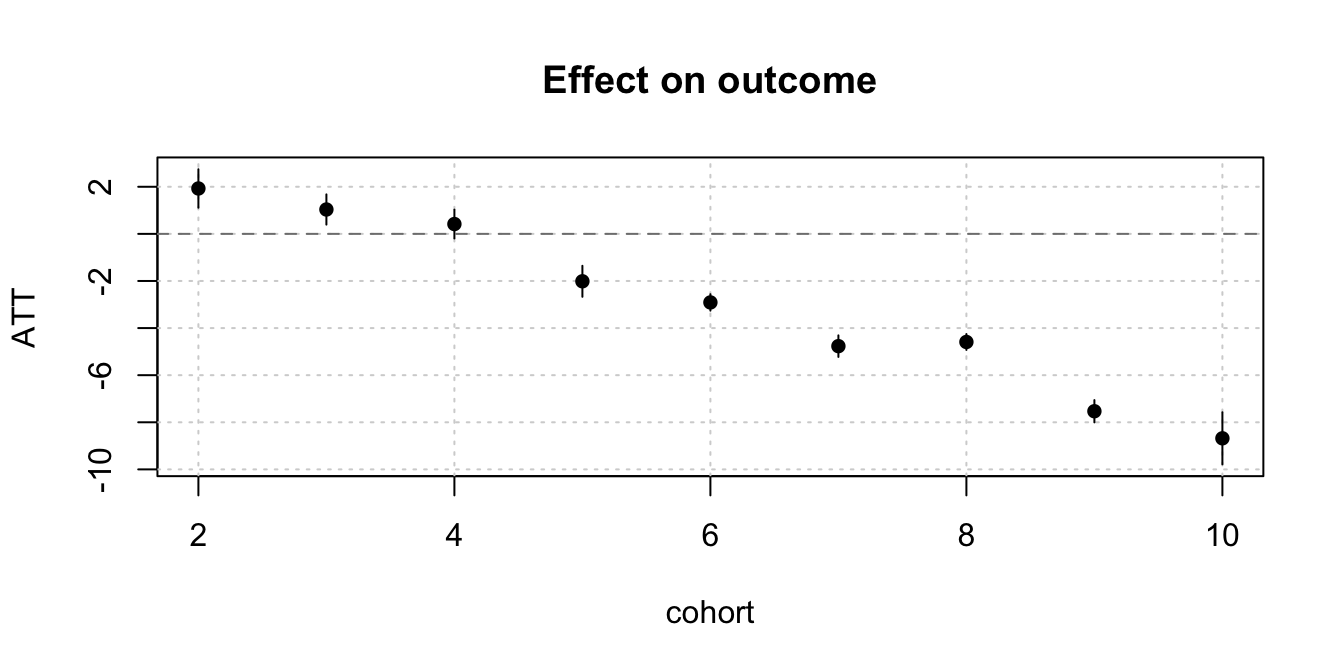
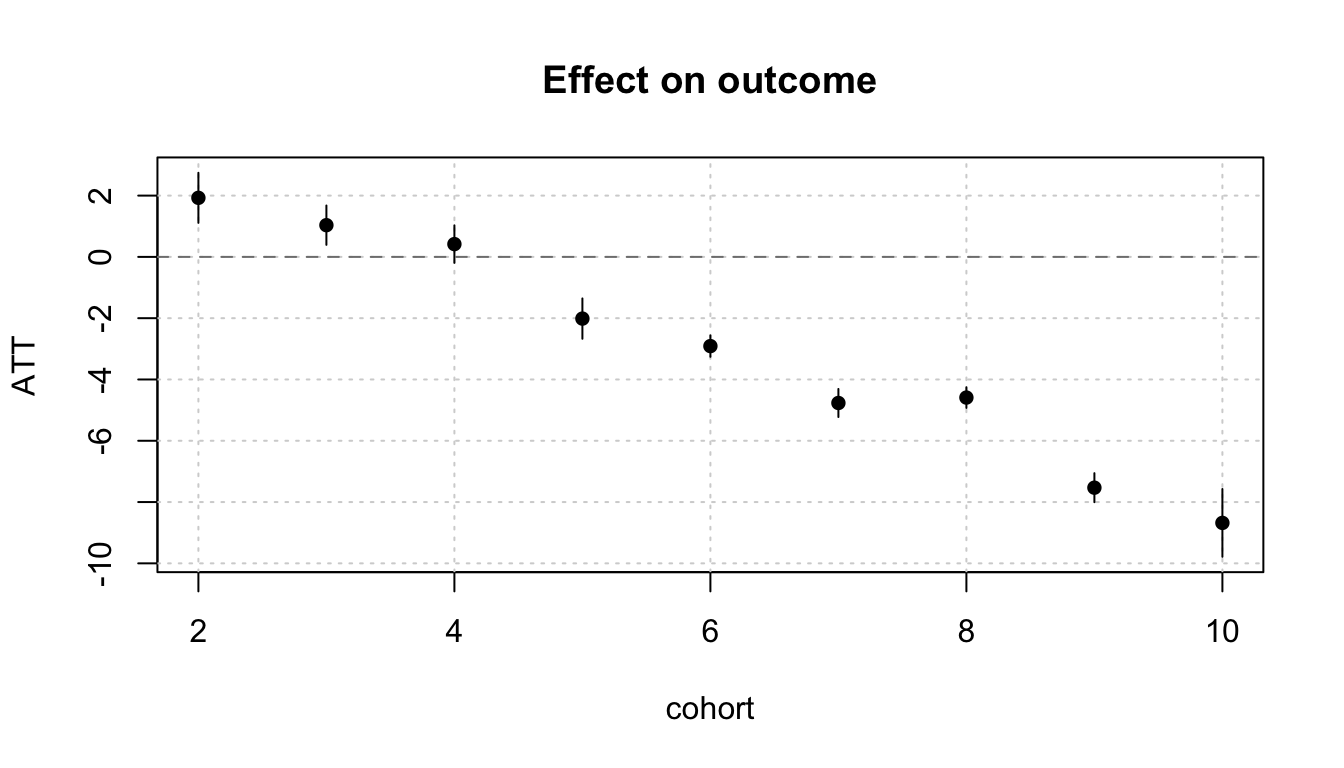
update plots

diff --git a/docs/csdid.html b/docs/csdid.html
@@ -277,7 +277,7 @@ pre > code.sourceCode > span > a:first-child::before { text-decoration: underlin
 <div class="sourceCode" id="cb5"><pre class="sourceCode r code-with-copy"><code class="sourceCode r"><span id="cb5-1"><a href="#cb5-1" aria-hidden="true" tabindex="-1"></a><span class="co">#&gt; </span></span>
 <span id="cb5-2"><a href="#cb5-2" aria-hidden="true" tabindex="-1"></a><span class="co">#&gt; </span></span>
 <span id="cb5-3"><a href="#cb5-3" aria-hidden="true" tabindex="-1"></a><span class="co">#&gt;     ATT Std. Error  [95.0%  Conf. Int.] </span></span>
-<span id="cb5-4"><a href="#cb5-4" aria-hidden="true" tabindex="-1"></a><span class="co">#&gt; -0.9761     0.5204 -1.9961       0.0439 </span></span>
+<span id="cb5-4"><a href="#cb5-4" aria-hidden="true" tabindex="-1"></a><span class="co">#&gt; -0.9761     0.5394 -2.0333       0.0811 </span></span>
 <span id="cb5-5"><a href="#cb5-5" aria-hidden="true" tabindex="-1"></a><span class="co">#&gt; </span></span>
 <span id="cb5-6"><a href="#cb5-6" aria-hidden="true" tabindex="-1"></a><span class="co">#&gt; </span></span>
 <span id="cb5-7"><a href="#cb5-7" aria-hidden="true" tabindex="-1"></a><span class="co">#&gt; ---</span></span>
@@ -287,7 +287,7 @@ pre > code.sourceCode > span > a:first-child::before { text-decoration: underlin
 <span id="cb5-11"><a href="#cb5-11" aria-hidden="true" tabindex="-1"></a><span class="co">#&gt; Estimation Method:  Doubly Robust</span></span>
 <span id="cb5-12"><a href="#cb5-12" aria-hidden="true" tabindex="-1"></a><span class="co">#&gt; </span></span>
 <span id="cb5-13"><a href="#cb5-13" aria-hidden="true" tabindex="-1"></a><span class="co">#&gt; </span></span>
-<span id="cb5-14"><a href="#cb5-14" aria-hidden="true" tabindex="-1"></a><span class="co">#&gt; &lt;csdid.att_gt.ATTgt object at 0x176bd9fd0&gt;</span></span></code><button title="Copy to Clipboard" class="code-copy-button"><i class="bi"></i></button></pre></div>
+<span id="cb5-14"><a href="#cb5-14" aria-hidden="true" tabindex="-1"></a><span class="co">#&gt; &lt;csdid.att_gt.ATTgt object at 0x172d04560&gt;</span></span></code><button title="Copy to Clipboard" class="code-copy-button"><i class="bi"></i></button></pre></div>
 </div>
 </div>
 <p><br></p>
@@ -299,27 +299,27 @@ pre > code.sourceCode > span > a:first-child::before { text-decoration: underlin
 <span id="cb7-2"><a href="#cb7-2" aria-hidden="true" tabindex="-1"></a><span class="co">#&gt; </span></span>
 <span id="cb7-3"><a href="#cb7-3" aria-hidden="true" tabindex="-1"></a><span class="co">#&gt; Overall summary of ATT's based on event-study/dynamic aggregation:</span></span>
 <span id="cb7-4"><a href="#cb7-4" aria-hidden="true" tabindex="-1"></a><span class="co">#&gt;    ATT Std. Error [95.0%  Conf. Int.]  </span></span>
-<span id="cb7-5"><a href="#cb7-5" aria-hidden="true" tabindex="-1"></a><span class="co">#&gt; 0.7669     0.2456 0.2856       1.2483 *</span></span>
+<span id="cb7-5"><a href="#cb7-5" aria-hidden="true" tabindex="-1"></a><span class="co">#&gt; 0.7669     0.2617  0.254       1.2799 *</span></span>
 <span id="cb7-6"><a href="#cb7-6" aria-hidden="true" tabindex="-1"></a><span class="co">#&gt; </span></span>
 <span id="cb7-7"><a href="#cb7-7" aria-hidden="true" tabindex="-1"></a><span class="co">#&gt; </span></span>
 <span id="cb7-8"><a href="#cb7-8" aria-hidden="true" tabindex="-1"></a><span class="co">#&gt; Dynamic Effects:</span></span>
 <span id="cb7-9"><a href="#cb7-9" aria-hidden="true" tabindex="-1"></a><span class="co">#&gt;     Event time  Estimate  Std. Error  [95.0% Simult.   Conf. Band   </span></span>
-<span id="cb7-10"><a href="#cb7-10" aria-hidden="true" tabindex="-1"></a><span class="co">#&gt; 0           -7    0.7884      0.4154          -0.0257      1.6026   </span></span>
-<span id="cb7-11"><a href="#cb7-11" aria-hidden="true" tabindex="-1"></a><span class="co">#&gt; 1           -6   -0.7444      0.5244          -1.7722      0.2835   </span></span>
-<span id="cb7-12"><a href="#cb7-12" aria-hidden="true" tabindex="-1"></a><span class="co">#&gt; 2           -5    0.0099      0.3829          -0.7405      0.7603   </span></span>
-<span id="cb7-13"><a href="#cb7-13" aria-hidden="true" tabindex="-1"></a><span class="co">#&gt; 3           -4    0.0249      0.3091          -0.5809      0.6307   </span></span>
-<span id="cb7-14"><a href="#cb7-14" aria-hidden="true" tabindex="-1"></a><span class="co">#&gt; 4           -3    0.1380      0.2788          -0.4085      0.6845   </span></span>
-<span id="cb7-15"><a href="#cb7-15" aria-hidden="true" tabindex="-1"></a><span class="co">#&gt; 5           -2    0.3772      0.3049          -0.2203      0.9748   </span></span>
-<span id="cb7-16"><a href="#cb7-16" aria-hidden="true" tabindex="-1"></a><span class="co">#&gt; 6           -1   -0.0628      0.2931          -0.6372      0.5116   </span></span>
-<span id="cb7-17"><a href="#cb7-17" aria-hidden="true" tabindex="-1"></a><span class="co">#&gt; 7            0   -4.8345      0.4018          -5.6220     -4.0469  *</span></span>
-<span id="cb7-18"><a href="#cb7-18" aria-hidden="true" tabindex="-1"></a><span class="co">#&gt; 8            1   -3.5553      0.4467          -4.4309     -2.6798  *</span></span>
-<span id="cb7-19"><a href="#cb7-19" aria-hidden="true" tabindex="-1"></a><span class="co">#&gt; 9            2   -2.0860      0.3892          -2.8488     -1.3233  *</span></span>
-<span id="cb7-20"><a href="#cb7-20" aria-hidden="true" tabindex="-1"></a><span class="co">#&gt; 10           3   -0.3910      0.5576          -1.4839      0.7019   </span></span>
-<span id="cb7-21"><a href="#cb7-21" aria-hidden="true" tabindex="-1"></a><span class="co">#&gt; 11           4    0.8165      0.4855          -0.1351      1.7681   </span></span>
-<span id="cb7-22"><a href="#cb7-22" aria-hidden="true" tabindex="-1"></a><span class="co">#&gt; 12           5    1.9183      0.7314           0.4847      3.3518  *</span></span>
-<span id="cb7-23"><a href="#cb7-23" aria-hidden="true" tabindex="-1"></a><span class="co">#&gt; 13           6    4.8726      0.3282           4.2292      5.5159  *</span></span>
-<span id="cb7-24"><a href="#cb7-24" aria-hidden="true" tabindex="-1"></a><span class="co">#&gt; 14           7    4.5839      0.3360           3.9254      5.2423  *</span></span>
-<span id="cb7-25"><a href="#cb7-25" aria-hidden="true" tabindex="-1"></a><span class="co">#&gt; 15           8    5.5782      0.6757           4.2539      6.9025  *</span></span>
+<span id="cb7-10"><a href="#cb7-10" aria-hidden="true" tabindex="-1"></a><span class="co">#&gt; 0           -7    0.7884      0.4784          -0.1492      1.7260   </span></span>
+<span id="cb7-11"><a href="#cb7-11" aria-hidden="true" tabindex="-1"></a><span class="co">#&gt; 1           -6   -0.7444      0.5443          -1.8112      0.3225   </span></span>
+<span id="cb7-12"><a href="#cb7-12" aria-hidden="true" tabindex="-1"></a><span class="co">#&gt; 2           -5    0.0099      0.3582          -0.6922      0.7121   </span></span>
+<span id="cb7-13"><a href="#cb7-13" aria-hidden="true" tabindex="-1"></a><span class="co">#&gt; 3           -4    0.0249      0.2946          -0.5526      0.6024   </span></span>
+<span id="cb7-14"><a href="#cb7-14" aria-hidden="true" tabindex="-1"></a><span class="co">#&gt; 4           -3    0.1380      0.3206          -0.4904      0.7664   </span></span>
+<span id="cb7-15"><a href="#cb7-15" aria-hidden="true" tabindex="-1"></a><span class="co">#&gt; 5           -2    0.3772      0.2980          -0.2068      0.9612   </span></span>
+<span id="cb7-16"><a href="#cb7-16" aria-hidden="true" tabindex="-1"></a><span class="co">#&gt; 6           -1   -0.0628      0.2917          -0.6345      0.5089   </span></span>
+<span id="cb7-17"><a href="#cb7-17" aria-hidden="true" tabindex="-1"></a><span class="co">#&gt; 7            0   -4.8345      0.3998          -5.6181     -4.0509  *</span></span>
+<span id="cb7-18"><a href="#cb7-18" aria-hidden="true" tabindex="-1"></a><span class="co">#&gt; 8            1   -3.5553      0.4008          -4.3409     -2.7698  *</span></span>
+<span id="cb7-19"><a href="#cb7-19" aria-hidden="true" tabindex="-1"></a><span class="co">#&gt; 9            2   -2.0860      0.3679          -2.8070     -1.3651  *</span></span>
+<span id="cb7-20"><a href="#cb7-20" aria-hidden="true" tabindex="-1"></a><span class="co">#&gt; 10           3   -0.3910      0.5716          -1.5114      0.7294   </span></span>
+<span id="cb7-21"><a href="#cb7-21" aria-hidden="true" tabindex="-1"></a><span class="co">#&gt; 11           4    0.8165      0.4531          -0.0715      1.7044   </span></span>
+<span id="cb7-22"><a href="#cb7-22" aria-hidden="true" tabindex="-1"></a><span class="co">#&gt; 12           5    1.9183      0.7530           0.4424      3.3942  *</span></span>
+<span id="cb7-23"><a href="#cb7-23" aria-hidden="true" tabindex="-1"></a><span class="co">#&gt; 13           6    4.8726      0.3386           4.2090      5.5362  *</span></span>
+<span id="cb7-24"><a href="#cb7-24" aria-hidden="true" tabindex="-1"></a><span class="co">#&gt; 14           7    4.5839      0.3410           3.9156      5.2522  *</span></span>
+<span id="cb7-25"><a href="#cb7-25" aria-hidden="true" tabindex="-1"></a><span class="co">#&gt; 15           8    5.5782      0.6853           4.2350      6.9214  *</span></span>
 <span id="cb7-26"><a href="#cb7-26" aria-hidden="true" tabindex="-1"></a><span class="co">#&gt; ---</span></span>
 <span id="cb7-27"><a href="#cb7-27" aria-hidden="true" tabindex="-1"></a><span class="co">#&gt; Signif. codes: `*' confidence band does not cover 0</span></span>
 <span id="cb7-28"><a href="#cb7-28" aria-hidden="true" tabindex="-1"></a><span class="co">#&gt; Control Group:  None , </span></span>
@@ -327,7 +327,7 @@ pre > code.sourceCode > span > a:first-child::before { text-decoration: underlin
 <span id="cb7-30"><a href="#cb7-30" aria-hidden="true" tabindex="-1"></a><span class="co">#&gt; Estimation Method:  Doubly Robust</span></span>
 <span id="cb7-31"><a href="#cb7-31" aria-hidden="true" tabindex="-1"></a><span class="co">#&gt; </span></span>
 <span id="cb7-32"><a href="#cb7-32" aria-hidden="true" tabindex="-1"></a><span class="co">#&gt; </span></span>
-<span id="cb7-33"><a href="#cb7-33" aria-hidden="true" tabindex="-1"></a><span class="co">#&gt; &lt;csdid.att_gt.ATTgt object at 0x176bd9fd0&gt;</span></span></code><button title="Copy to Clipboard" class="code-copy-button"><i class="bi"></i></button></pre></div>
+<span id="cb7-33"><a href="#cb7-33" aria-hidden="true" tabindex="-1"></a><span class="co">#&gt; &lt;csdid.att_gt.ATTgt object at 0x172d04560&gt;</span></span></code><button title="Copy to Clipboard" class="code-copy-button"><i class="bi"></i></button></pre></div>
 </div>
 <div class="sourceCode cell-code" id="cb8"><pre class="sourceCode python code-with-copy"><code class="sourceCode python"><span id="cb8-1"><a href="#cb8-1" aria-hidden="true" tabindex="-1"></a>mod.plot_aggte()</span></code><button title="Copy to Clipboard" class="code-copy-button"><i class="bi"></i></button></pre></div>
 <div class="cell-output-display">
@@ -347,19 +347,19 @@ pre > code.sourceCode > span > a:first-child::before { text-decoration: underlin
 <span id="cb10-2"><a href="#cb10-2" aria-hidden="true" tabindex="-1"></a><span class="co">#&gt; </span></span>
 <span id="cb10-3"><a href="#cb10-3" aria-hidden="true" tabindex="-1"></a><span class="co">#&gt; Overall summary of ATT's based on group/cohort aggregation:</span></span>
 <span id="cb10-4"><a href="#cb10-4" aria-hidden="true" tabindex="-1"></a><span class="co">#&gt;     ATT Std. Error  [95.0%  Conf. Int.]  </span></span>
-<span id="cb10-5"><a href="#cb10-5" aria-hidden="true" tabindex="-1"></a><span class="co">#&gt; -2.2754     0.1839 -2.6358       -1.915 *</span></span>
+<span id="cb10-5"><a href="#cb10-5" aria-hidden="true" tabindex="-1"></a><span class="co">#&gt; -2.2754     0.1894 -2.6467      -1.9041 *</span></span>
 <span id="cb10-6"><a href="#cb10-6" aria-hidden="true" tabindex="-1"></a><span class="co">#&gt; </span></span>
 <span id="cb10-7"><a href="#cb10-7" aria-hidden="true" tabindex="-1"></a><span class="co">#&gt; </span></span>
 <span id="cb10-8"><a href="#cb10-8" aria-hidden="true" tabindex="-1"></a><span class="co">#&gt; Group Effects:</span></span>
 <span id="cb10-9"><a href="#cb10-9" aria-hidden="true" tabindex="-1"></a><span class="co">#&gt;    Group  Estimate  Std. Error  [95.0% Simult.   Conf. Band   </span></span>
-<span id="cb10-10"><a href="#cb10-10" aria-hidden="true" tabindex="-1"></a><span class="co">#&gt; 0      2    2.0844      0.3110           1.4750      2.6939  *</span></span>
-<span id="cb10-11"><a href="#cb10-11" aria-hidden="true" tabindex="-1"></a><span class="co">#&gt; 1      3    1.3054      0.4957           0.3339      2.2770  *</span></span>
-<span id="cb10-12"><a href="#cb10-12" aria-hidden="true" tabindex="-1"></a><span class="co">#&gt; 2      4    1.1756      0.6094          -0.0188      2.3700   </span></span>
-<span id="cb10-13"><a href="#cb10-13" aria-hidden="true" tabindex="-1"></a><span class="co">#&gt; 3      5   -2.9813      0.3828          -3.7316     -2.2311  *</span></span>
-<span id="cb10-14"><a href="#cb10-14" aria-hidden="true" tabindex="-1"></a><span class="co">#&gt; 4      6   -2.8821      0.6997          -4.2534     -1.5108  *</span></span>
-<span id="cb10-15"><a href="#cb10-15" aria-hidden="true" tabindex="-1"></a><span class="co">#&gt; 5      7   -4.5846      0.8311          -6.2134     -2.9558  *</span></span>
-<span id="cb10-16"><a href="#cb10-16" aria-hidden="true" tabindex="-1"></a><span class="co">#&gt; 6      8   -5.1020      0.3839          -5.8544     -4.3495  *</span></span>
-<span id="cb10-17"><a href="#cb10-17" aria-hidden="true" tabindex="-1"></a><span class="co">#&gt; 7      9   -7.2184      0.3954          -7.9933     -6.4436  *</span></span>
+<span id="cb10-10"><a href="#cb10-10" aria-hidden="true" tabindex="-1"></a><span class="co">#&gt; 0      2    2.0844      0.3097           1.4773      2.6915  *</span></span>
+<span id="cb10-11"><a href="#cb10-11" aria-hidden="true" tabindex="-1"></a><span class="co">#&gt; 1      3    1.3054      0.4644           0.3951      2.2157  *</span></span>
+<span id="cb10-12"><a href="#cb10-12" aria-hidden="true" tabindex="-1"></a><span class="co">#&gt; 2      4    1.1756      0.6595          -0.1170      2.4681   </span></span>
+<span id="cb10-13"><a href="#cb10-13" aria-hidden="true" tabindex="-1"></a><span class="co">#&gt; 3      5   -2.9813      0.3982          -3.7618     -2.2009  *</span></span>
+<span id="cb10-14"><a href="#cb10-14" aria-hidden="true" tabindex="-1"></a><span class="co">#&gt; 4      6   -2.8821      0.6750          -4.2050     -1.5591  *</span></span>
+<span id="cb10-15"><a href="#cb10-15" aria-hidden="true" tabindex="-1"></a><span class="co">#&gt; 5      7   -4.5846      0.7064          -5.9691     -3.2001  *</span></span>
+<span id="cb10-16"><a href="#cb10-16" aria-hidden="true" tabindex="-1"></a><span class="co">#&gt; 6      8   -5.1020      0.3650          -5.8173     -4.3866  *</span></span>
+<span id="cb10-17"><a href="#cb10-17" aria-hidden="true" tabindex="-1"></a><span class="co">#&gt; 7      9   -7.2184      0.4413          -8.0834     -6.3535  *</span></span>
 <span id="cb10-18"><a href="#cb10-18" aria-hidden="true" tabindex="-1"></a><span class="co">#&gt; ---</span></span>
 <span id="cb10-19"><a href="#cb10-19" aria-hidden="true" tabindex="-1"></a><span class="co">#&gt; Signif. codes: `*' confidence band does not cover 0</span></span>
 <span id="cb10-20"><a href="#cb10-20" aria-hidden="true" tabindex="-1"></a><span class="co">#&gt; Control Group:  None , </span></span>
@@ -367,7 +367,7 @@ pre > code.sourceCode > span > a:first-child::before { text-decoration: underlin
 <span id="cb10-22"><a href="#cb10-22" aria-hidden="true" tabindex="-1"></a><span class="co">#&gt; Estimation Method:  Doubly Robust</span></span>
 <span id="cb10-23"><a href="#cb10-23" aria-hidden="true" tabindex="-1"></a><span class="co">#&gt; </span></span>
 <span id="cb10-24"><a href="#cb10-24" aria-hidden="true" tabindex="-1"></a><span class="co">#&gt; </span></span>
-<span id="cb10-25"><a href="#cb10-25" aria-hidden="true" tabindex="-1"></a><span class="co">#&gt; &lt;csdid.att_gt.ATTgt object at 0x176bd9fd0&gt;</span></span></code><button title="Copy to Clipboard" class="code-copy-button"><i class="bi"></i></button></pre></div>
+<span id="cb10-25"><a href="#cb10-25" aria-hidden="true" tabindex="-1"></a><span class="co">#&gt; &lt;csdid.att_gt.ATTgt object at 0x172d04560&gt;</span></span></code><button title="Copy to Clipboard" class="code-copy-button"><i class="bi"></i></button></pre></div>
 </div>
 <div class="sourceCode cell-code" id="cb11"><pre class="sourceCode python code-with-copy"><code class="sourceCode python"><span id="cb11-1"><a href="#cb11-1" aria-hidden="true" tabindex="-1"></a>mod.plot_aggte()</span></code><button title="Copy to Clipboard" class="code-copy-button"><i class="bi"></i></button></pre></div>
 <div class="cell-output-display">

diff --git a/docs/panelmatch.html b/docs/panelmatch.html
@@ -248,8 +248,9 @@ pre > code.sourceCode > span > a:first-child::before { text-decoration: underlin
 <p>Start by loading packages and the data:</p>
 <div class="cell">
 <div class="sourceCode cell-code" id="cb2"><pre class="sourceCode r code-with-copy"><code class="sourceCode r"><span id="cb2-1"><a href="#cb2-1" aria-hidden="true" tabindex="-1"></a><span class="fu">library</span>(PanelMatch)</span>
-<span id="cb2-2"><a href="#cb2-2" aria-hidden="true" tabindex="-1"></a><span class="fu">library</span>(readr)  <span class="co"># for importing data</span></span>
-<span id="cb2-3"><a href="#cb2-3" aria-hidden="true" tabindex="-1"></a>df <span class="ot">=</span> <span class="fu">read_csv</span>(<span class="st">'df.csv'</span>)</span></code><button title="Copy to Clipboard" class="code-copy-button"><i class="bi"></i></button></pre></div>
+<span id="cb2-2"><a href="#cb2-2" aria-hidden="true" tabindex="-1"></a><span class="fu">library</span>(readr)    <span class="co"># for importing data</span></span>
+<span id="cb2-3"><a href="#cb2-3" aria-hidden="true" tabindex="-1"></a><span class="fu">library</span>(ggplot2)  <span class="co"># for plotting</span></span>
+<span id="cb2-4"><a href="#cb2-4" aria-hidden="true" tabindex="-1"></a>df <span class="ot">=</span> <span class="fu">read_csv</span>(<span class="st">'df.csv'</span>)</span></code><button title="Copy to Clipboard" class="code-copy-button"><i class="bi"></i></button></pre></div>
 </div>
 <p><br></p>
 <p>PanelMatch requires us to pre-process the data with the <code>PanelData()</code> function:</p>
@@ -300,14 +301,14 @@ pre > code.sourceCode > span > a:first-child::before { text-decoration: underlin
 <span id="cb6-2"><a href="#cb6-2" aria-hidden="true" tabindex="-1"></a><span class="co">#&gt; [1] 1.563779</span></span>
 <span id="cb6-3"><a href="#cb6-3" aria-hidden="true" tabindex="-1"></a><span class="co">#&gt; </span></span>
 <span id="cb6-4"><a href="#cb6-4" aria-hidden="true" tabindex="-1"></a><span class="co">#&gt; Standard errors:</span></span>
-<span id="cb6-5"><a href="#cb6-5" aria-hidden="true" tabindex="-1"></a><span class="co">#&gt; [1] 1.17769</span></span>
+<span id="cb6-5"><a href="#cb6-5" aria-hidden="true" tabindex="-1"></a><span class="co">#&gt; [1] 1.153962</span></span>
 <span id="cb6-6"><a href="#cb6-6" aria-hidden="true" tabindex="-1"></a><span class="co">#&gt; </span></span>
 <span id="cb6-7"><a href="#cb6-7" aria-hidden="true" tabindex="-1"></a><span class="co">#&gt; Estimates produced with 5 observations (non-empty matched sets)</span></span></code><button title="Copy to Clipboard" class="code-copy-button"><i class="bi"></i></button></pre></div>
 </div>
 </div>
 <p>The <code>Point estimates</code> are the estimated ATT, and the standard errors are provided.</p>
 <p><br></p>
-<p>We can estimate event-study effects with the <code>PanelEstimate()</code> function for post-treatment effects, and the <code>placebo_test()</code> function for pre-treatment effects. Since these are separate, we can manually combine the two results from both functions to get event-study estimates.</p>
+<p>We can estimate event-study effects with the <code>PanelEstimate()</code> function for post-treatment effects, and the <code>placebo_test()</code> function for pre-treatment effects.</p>
 <div class="cell" data-layout-align="center">
 <div class="sourceCode cell-code" id="cb7"><pre class="sourceCode r code-with-copy"><code class="sourceCode r"><span id="cb7-1"><a href="#cb7-1" aria-hidden="true" tabindex="-1"></a><span class="co"># estimate post-treatment effects</span></span>
 <span id="cb7-2"><a href="#cb7-2" aria-hidden="true" tabindex="-1"></a>post <span class="ot">=</span> match <span class="sc">|&gt;</span></span>
@@ -322,52 +323,34 @@ pre > code.sourceCode > span > a:first-child::before { text-decoration: underlin
 <span id="cb7-11"><a href="#cb7-11" aria-hidden="true" tabindex="-1"></a>  <span class="at">panel.data =</span> df.panel,  <span class="co"># PanelData object</span></span>
 <span id="cb7-12"><a href="#cb7-12" aria-hidden="true" tabindex="-1"></a>  <span class="at">lag.in     =</span> <span class="dv">3</span>,         <span class="co"># should equal lag in PanelMatch()</span></span>
 <span id="cb7-13"><a href="#cb7-13" aria-hidden="true" tabindex="-1"></a>  <span class="at">plot       =</span> F</span>
-<span id="cb7-14"><a href="#cb7-14" aria-hidden="true" tabindex="-1"></a>)</span>
-<span id="cb7-15"><a href="#cb7-15" aria-hidden="true" tabindex="-1"></a></span>
-<span id="cb7-16"><a href="#cb7-16" aria-hidden="true" tabindex="-1"></a><span class="co"># combine pre and post estimates</span></span>
-<span id="cb7-17"><a href="#cb7-17" aria-hidden="true" tabindex="-1"></a>effects <span class="ot">=</span> <span class="fu">c</span>(pre<span class="sc">$</span>estimate, <span class="dv">0</span>, post<span class="sc">$</span>estimate)  <span class="co"># there is no t=-1 effect estimated so add it</span></span>
-<span id="cb7-18"><a href="#cb7-18" aria-hidden="true" tabindex="-1"></a>se <span class="ot">=</span> <span class="fu">c</span>(pre<span class="sc">$</span>standard.error, <span class="dv">0</span>, post<span class="sc">$</span>standard.error)</span>
-<span id="cb7-19"><a href="#cb7-19" aria-hidden="true" tabindex="-1"></a></span>
-<span id="cb7-20"><a href="#cb7-20" aria-hidden="true" tabindex="-1"></a><span class="co"># create rel.time variable for pre/post periods</span></span>
-<span id="cb7-21"><a href="#cb7-21" aria-hidden="true" tabindex="-1"></a>rel.time <span class="ot">=</span> <span class="fu">c</span>(<span class="sc">-</span><span class="dv">3</span><span class="sc">:</span><span class="dv">6</span>)  </span>
-<span id="cb7-22"><a href="#cb7-22" aria-hidden="true" tabindex="-1"></a></span>
-<span id="cb7-23"><a href="#cb7-23" aria-hidden="true" tabindex="-1"></a><span class="co"># create results df</span></span>
-<span id="cb7-24"><a href="#cb7-24" aria-hidden="true" tabindex="-1"></a>results.df <span class="ot">=</span> <span class="fu">data.frame</span>(rel.time, effects, se)  </span>
-<span id="cb7-25"><a href="#cb7-25" aria-hidden="true" tabindex="-1"></a></span>
-<span id="cb7-26"><a href="#cb7-26" aria-hidden="true" tabindex="-1"></a>results.df</span></code><button title="Copy to Clipboard" class="code-copy-button"><i class="bi"></i></button></pre></div>
-<div class="cell-output cell-output-stdout">
-<div class="sourceCode" id="cb8"><pre class="sourceCode r code-with-copy"><code class="sourceCode r"><span id="cb8-1"><a href="#cb8-1" aria-hidden="true" tabindex="-1"></a><span class="co">#&gt;     rel.time    effects       se</span></span>
-<span id="cb8-2"><a href="#cb8-2" aria-hidden="true" tabindex="-1"></a><span class="co">#&gt; t-3       -3  0.6560570 2.378065</span></span>
-<span id="cb8-3"><a href="#cb8-3" aria-hidden="true" tabindex="-1"></a><span class="co">#&gt; t-2       -2  0.5053392 1.680652</span></span>
-<span id="cb8-4"><a href="#cb8-4" aria-hidden="true" tabindex="-1"></a><span class="co">#&gt;           -1  0.0000000 0.000000</span></span>
-<span id="cb8-5"><a href="#cb8-5" aria-hidden="true" tabindex="-1"></a><span class="co">#&gt; t+0        0 -3.3314221 1.263306</span></span>
-<span id="cb8-6"><a href="#cb8-6" aria-hidden="true" tabindex="-1"></a><span class="co">#&gt; t+1        1 -1.0451417 1.321170</span></span>
-<span id="cb8-7"><a href="#cb8-7" aria-hidden="true" tabindex="-1"></a><span class="co">#&gt; t+2        2 -0.4807579 1.225269</span></span>
-<span id="cb8-8"><a href="#cb8-8" aria-hidden="true" tabindex="-1"></a><span class="co">#&gt; t+3        3  2.6321526 1.280105</span></span>
-<span id="cb8-9"><a href="#cb8-9" aria-hidden="true" tabindex="-1"></a><span class="co">#&gt; t+4        4  3.6776622 1.742962</span></span>
-<span id="cb8-10"><a href="#cb8-10" aria-hidden="true" tabindex="-1"></a><span class="co">#&gt; t+5        5  3.5015469 2.126417</span></span>
-<span id="cb8-11"><a href="#cb8-11" aria-hidden="true" tabindex="-1"></a><span class="co">#&gt; t+6        6  5.9924141 2.067283</span></span></code><button title="Copy to Clipboard" class="code-copy-button"><i class="bi"></i></button></pre></div>
+<span id="cb7-14"><a href="#cb7-14" aria-hidden="true" tabindex="-1"></a>)</span></code><button title="Copy to Clipboard" class="code-copy-button"><i class="bi"></i></button></pre></div>
 </div>
-</div>
-<p><br></p>
 <p>The built in plotting functions are lackluster, so we will create a manual ggplot to plot the results.</p>
 <div class="cell" data-layout-align="center">
-<div class="sourceCode cell-code" id="cb9"><pre class="sourceCode r code-with-copy"><code class="sourceCode r"><span id="cb9-1"><a href="#cb9-1" aria-hidden="true" tabindex="-1"></a><span class="fu">library</span>(ggplot2)</span>
-<span id="cb9-2"><a href="#cb9-2" aria-hidden="true" tabindex="-1"></a></span>
-<span id="cb9-3"><a href="#cb9-3" aria-hidden="true" tabindex="-1"></a><span class="co"># first create lwr and upr bounds for se</span></span>
-<span id="cb9-4"><a href="#cb9-4" aria-hidden="true" tabindex="-1"></a>results.df<span class="sc">$</span>se.lwr <span class="ot">=</span> results.df<span class="sc">$</span>effects <span class="sc">-</span> <span class="fl">1.96</span><span class="sc">*</span>results.df<span class="sc">$</span>se</span>
-<span id="cb9-5"><a href="#cb9-5" aria-hidden="true" tabindex="-1"></a>results.df<span class="sc">$</span>se.upr <span class="ot">=</span> results.df<span class="sc">$</span>effects <span class="sc">+</span> <span class="fl">1.96</span><span class="sc">*</span>results.df<span class="sc">$</span>se</span>
-<span id="cb9-6"><a href="#cb9-6" aria-hidden="true" tabindex="-1"></a></span>
-<span id="cb9-7"><a href="#cb9-7" aria-hidden="true" tabindex="-1"></a>results.df <span class="sc">|&gt;</span></span>
-<span id="cb9-8"><a href="#cb9-8" aria-hidden="true" tabindex="-1"></a>  <span class="fu">ggplot</span>(<span class="fu">aes</span>(<span class="at">x =</span> rel.time, <span class="at">y =</span> effects)) <span class="sc">+</span></span>
-<span id="cb9-9"><a href="#cb9-9" aria-hidden="true" tabindex="-1"></a>  <span class="fu">geom_point</span>() <span class="sc">+</span></span>
-<span id="cb9-10"><a href="#cb9-10" aria-hidden="true" tabindex="-1"></a>  <span class="fu">geom_linerange</span>(<span class="fu">aes</span>(<span class="at">ymin =</span> se.lwr, <span class="at">ymax =</span> se.upr)) <span class="sc">+</span></span>
-<span id="cb9-11"><a href="#cb9-11" aria-hidden="true" tabindex="-1"></a>  <span class="fu">geom_hline</span>(<span class="at">yintercept =</span> <span class="dv">0</span>, <span class="at">color =</span> <span class="st">"gray"</span>) <span class="sc">+</span></span>
-<span id="cb9-12"><a href="#cb9-12" aria-hidden="true" tabindex="-1"></a>  <span class="fu">geom_vline</span>(<span class="at">xintercept =</span> <span class="sc">-</span><span class="fl">0.5</span>, <span class="at">color =</span> <span class="st">"gray"</span>) <span class="sc">+</span></span>
-<span id="cb9-13"><a href="#cb9-13" aria-hidden="true" tabindex="-1"></a>  <span class="fu">labs</span>(<span class="at">title =</span> <span class="st">"Event-Study Estimates (PanelMatch)"</span>) <span class="sc">+</span></span>
-<span id="cb9-14"><a href="#cb9-14" aria-hidden="true" tabindex="-1"></a>  <span class="fu">xlab</span>(<span class="st">"Time to initial treatment period"</span>) <span class="sc">+</span></span>
-<span id="cb9-15"><a href="#cb9-15" aria-hidden="true" tabindex="-1"></a>  <span class="fu">ylab</span>(<span class="st">"Estimate"</span>) <span class="sc">+</span></span>
-<span id="cb9-16"><a href="#cb9-16" aria-hidden="true" tabindex="-1"></a>  <span class="fu">theme_light</span>()</span></code><button title="Copy to Clipboard" class="code-copy-button"><i class="bi"></i></button></pre></div>
+<div class="sourceCode cell-code" id="cb8"><pre class="sourceCode r code-with-copy"><code class="sourceCode r"><span id="cb8-1"><a href="#cb8-1" aria-hidden="true" tabindex="-1"></a><span class="co"># combine pre and post estimates</span></span>
+<span id="cb8-2"><a href="#cb8-2" aria-hidden="true" tabindex="-1"></a>effects <span class="ot">=</span> <span class="fu">c</span>(pre<span class="sc">$</span>estimate, <span class="dv">0</span>, post<span class="sc">$</span>estimate)  <span class="co"># there is no t=-1 effect estimated so add it</span></span>
+<span id="cb8-3"><a href="#cb8-3" aria-hidden="true" tabindex="-1"></a>se <span class="ot">=</span> <span class="fu">c</span>(pre<span class="sc">$</span>standard.error, <span class="dv">0</span>, post<span class="sc">$</span>standard.error)</span>
+<span id="cb8-4"><a href="#cb8-4" aria-hidden="true" tabindex="-1"></a></span>
+<span id="cb8-5"><a href="#cb8-5" aria-hidden="true" tabindex="-1"></a><span class="co"># create rel.time variable for pre/post periods</span></span>
+<span id="cb8-6"><a href="#cb8-6" aria-hidden="true" tabindex="-1"></a>rel.time <span class="ot">=</span> <span class="fu">c</span>(<span class="sc">-</span><span class="dv">3</span><span class="sc">:</span><span class="dv">6</span>)  </span>
+<span id="cb8-7"><a href="#cb8-7" aria-hidden="true" tabindex="-1"></a></span>
+<span id="cb8-8"><a href="#cb8-8" aria-hidden="true" tabindex="-1"></a><span class="co"># create results df</span></span>
+<span id="cb8-9"><a href="#cb8-9" aria-hidden="true" tabindex="-1"></a>results.df <span class="ot">=</span> <span class="fu">data.frame</span>(rel.time, effects, se)</span>
+<span id="cb8-10"><a href="#cb8-10" aria-hidden="true" tabindex="-1"></a></span>
+<span id="cb8-11"><a href="#cb8-11" aria-hidden="true" tabindex="-1"></a><span class="co"># first create lwr and upr bounds for se</span></span>
+<span id="cb8-12"><a href="#cb8-12" aria-hidden="true" tabindex="-1"></a>results.df<span class="sc">$</span>se.lwr <span class="ot">=</span> results.df<span class="sc">$</span>effects <span class="sc">-</span> <span class="fl">1.96</span><span class="sc">*</span>results.df<span class="sc">$</span>se</span>
+<span id="cb8-13"><a href="#cb8-13" aria-hidden="true" tabindex="-1"></a>results.df<span class="sc">$</span>se.upr <span class="ot">=</span> results.df<span class="sc">$</span>effects <span class="sc">+</span> <span class="fl">1.96</span><span class="sc">*</span>results.df<span class="sc">$</span>se</span>
+<span id="cb8-14"><a href="#cb8-14" aria-hidden="true" tabindex="-1"></a></span>
+<span id="cb8-15"><a href="#cb8-15" aria-hidden="true" tabindex="-1"></a>results.df <span class="sc">|&gt;</span></span>
+<span id="cb8-16"><a href="#cb8-16" aria-hidden="true" tabindex="-1"></a>  <span class="fu">ggplot</span>(<span class="fu">aes</span>(<span class="at">x =</span> rel.time, <span class="at">y =</span> effects)) <span class="sc">+</span></span>
+<span id="cb8-17"><a href="#cb8-17" aria-hidden="true" tabindex="-1"></a>  <span class="fu">geom_point</span>() <span class="sc">+</span></span>
+<span id="cb8-18"><a href="#cb8-18" aria-hidden="true" tabindex="-1"></a>  <span class="fu">geom_linerange</span>(<span class="fu">aes</span>(<span class="at">ymin =</span> se.lwr, <span class="at">ymax =</span> se.upr)) <span class="sc">+</span></span>
+<span id="cb8-19"><a href="#cb8-19" aria-hidden="true" tabindex="-1"></a>  <span class="fu">geom_hline</span>(<span class="at">yintercept =</span> <span class="dv">0</span>, <span class="at">color =</span> <span class="st">"gray"</span>) <span class="sc">+</span></span>
+<span id="cb8-20"><a href="#cb8-20" aria-hidden="true" tabindex="-1"></a>  <span class="fu">geom_vline</span>(<span class="at">xintercept =</span> <span class="sc">-</span><span class="fl">0.5</span>, <span class="at">color =</span> <span class="st">"gray"</span>) <span class="sc">+</span></span>
+<span id="cb8-21"><a href="#cb8-21" aria-hidden="true" tabindex="-1"></a>  <span class="fu">labs</span>(<span class="at">title =</span> <span class="st">"Event-Study Estimates (PanelMatch)"</span>) <span class="sc">+</span></span>
+<span id="cb8-22"><a href="#cb8-22" aria-hidden="true" tabindex="-1"></a>  <span class="fu">xlab</span>(<span class="st">"Time to initial treatment period"</span>) <span class="sc">+</span></span>
+<span id="cb8-23"><a href="#cb8-23" aria-hidden="true" tabindex="-1"></a>  <span class="fu">ylab</span>(<span class="st">"Estimate"</span>) <span class="sc">+</span></span>
+<span id="cb8-24"><a href="#cb8-24" aria-hidden="true" tabindex="-1"></a>  <span class="fu">theme_light</span>()</span></code><button title="Copy to Clipboard" class="code-copy-button"><i class="bi"></i></button></pre></div>
 <div class="cell-output-display">
 <div class="quarto-figure quarto-figure-center">
 <figure class="figure">

diff --git a/docs/did.html b/docs/did.html
@@ -288,7 +288,7 @@ pre > code.sourceCode > span > a:first-child::before { text-decoration: underlin
 <span id="cb5-6"><a href="#cb5-6" aria-hidden="true" tabindex="-1"></a><span class="co">#&gt; </span></span>
 <span id="cb5-7"><a href="#cb5-7" aria-hidden="true" tabindex="-1"></a><span class="co">#&gt; </span></span>
 <span id="cb5-8"><a href="#cb5-8" aria-hidden="true" tabindex="-1"></a><span class="co">#&gt;      ATT    Std. Error     [ 95%  Conf. Int.]  </span></span>
-<span id="cb5-9"><a href="#cb5-9" aria-hidden="true" tabindex="-1"></a><span class="co">#&gt;  -1.1237        0.5197    -2.1424     -0.1051 *</span></span>
+<span id="cb5-9"><a href="#cb5-9" aria-hidden="true" tabindex="-1"></a><span class="co">#&gt;  -1.1237        0.5144     -2.132     -0.1154 *</span></span>
 <span id="cb5-10"><a href="#cb5-10" aria-hidden="true" tabindex="-1"></a><span class="co">#&gt; </span></span>
 <span id="cb5-11"><a href="#cb5-11" aria-hidden="true" tabindex="-1"></a><span class="co">#&gt; </span></span>
 <span id="cb5-12"><a href="#cb5-12" aria-hidden="true" tabindex="-1"></a><span class="co">#&gt; ---</span></span>
@@ -316,7 +316,6 @@ pre > code.sourceCode > span > a:first-child::before { text-decoration: underlin
 </div>
 </div>
 </div>
-<p><br></p>
 <p>We can also aggregate effects by initial treatment period group, and with the <code>ggdid()</code> function:</p>
 <div class="cell" data-layout-align="center">
 <div class="sourceCode cell-code" id="cb7"><pre class="sourceCode r code-with-copy"><code class="sourceCode r"><span id="cb7-1"><a href="#cb7-1" aria-hidden="true" tabindex="-1"></a>mod <span class="sc">|&gt;</span></span>
@@ -334,6 +333,8 @@ pre > code.sourceCode > span > a:first-child::before { text-decoration: underlin
 </div>
 </div>
 </div>
+<p>Other options for <code>type =</code> include <code>"calendar"</code>, which displays the treatment effects grouped by actual (not relative) time period.</p>
+<p><br></p>
 
 
 </section>

diff --git a/docs/etwfe.html b/docs/etwfe.html
@@ -278,7 +278,7 @@ pre > code.sourceCode > span > a:first-child::before { text-decoration: underlin
 </div>
 <p>The <code>estimate</code> for <code>TRUE</code> is our ATT, and the p-value is given by <code>Pr(&gt;|Z|)</code>.</p>
 <p><br></p>
-<p>We can use the <code>emfx()</code> function to aggregate dynamic treatment effects. We can then plot these effects with the <code>plot()</code> function.</p>
+<p>We can use the <code>emfx()</code> function to aggregate dynamic treatment effects. We can then plot these effects with the <code>plot()</code> function. Note that etwfe cannot estimate pre-treatment effects.</p>
 <div class="cell" data-layout-align="center">
 <div class="sourceCode cell-code" id="cb6"><pre class="sourceCode r code-with-copy"><code class="sourceCode r"><span id="cb6-1"><a href="#cb6-1" aria-hidden="true" tabindex="-1"></a>mod <span class="sc">|&gt;</span></span>
 <span id="cb6-2"><a href="#cb6-2" aria-hidden="true" tabindex="-1"></a>  <span class="fu">emfx</span>(<span class="at">type =</span> <span class="st">"event"</span>) <span class="sc">|&gt;</span></span>
@@ -291,8 +291,6 @@ pre > code.sourceCode > span > a:first-child::before { text-decoration: underlin
 </div>
 </div>
 </div>
-<p>Note that etwfe cannot estimate pre-treatment effects.</p>
-<p><br></p>
 <p>If we are interested in how the ATT differs by year of treatment adoption, we can also aggregate effects by initial treatment period group. We can then plot these effects with the <code>plot()</code> function:</p>
 <div class="cell" data-layout-align="center">
 <div class="sourceCode cell-code" id="cb7"><pre class="sourceCode r code-with-copy"><code class="sourceCode r"><span id="cb7-1"><a href="#cb7-1" aria-hidden="true" tabindex="-1"></a>mod <span class="sc">|&gt;</span></span>
@@ -306,6 +304,7 @@ pre > code.sourceCode > span > a:first-child::before { text-decoration: underlin
 </div>
 </div>
 </div>
+<p><br></p>
 
 
 </section>

diff --git a/docs/impute.html b/docs/impute.html
@@ -286,7 +286,7 @@ pre > code.sourceCode > span > a:first-child::before { text-decoration: underlin
 <span id="cb5-9"><a href="#cb5-9" aria-hidden="true" tabindex="-1"></a>  <span class="at">pretrends =</span> <span class="sc">-</span><span class="dv">4</span><span class="sc">:-</span><span class="dv">1</span>                    <span class="co"># how many pre-treatment period to include</span></span>
 <span id="cb5-10"><a href="#cb5-10" aria-hidden="true" tabindex="-1"></a>)</span></code><button title="Copy to Clipboard" class="code-copy-button"><i class="bi"></i></button></pre></div>
 </div>
-<p>There is no simple way to plot this, so we will have to manually do so.</p>
+<p>There is no simple built-in plot function for the package, so we will need to manually create a ggplot.</p>
 <div class="cell" data-layout-align="center">
 <div class="sourceCode cell-code" id="cb6"><pre class="sourceCode r code-with-copy"><code class="sourceCode r"><span id="cb6-1"><a href="#cb6-1" aria-hidden="true" tabindex="-1"></a><span class="co"># convert output into table</span></span>
 <span id="cb6-2"><a href="#cb6-2" aria-hidden="true" tabindex="-1"></a>tbl <span class="ot">=</span> mod <span class="sc">|&gt;</span> <span class="fu">as.data.table</span>()</span>

diff --git a/docs/fect.html b/docs/fect.html
@@ -332,7 +332,6 @@ window.Quarto = {
 </div>
 </div>
 </div>
-<p><br></p>
 <p>We can also plot the distributions of dynamic treatment effects as follows:</p>
 <div class="cell" data-layout-align="center">
 <div class="sourceCode cell-code" id="cb6"><pre class="sourceCode r code-with-copy"><code class="sourceCode r"><span id="cb6-1"><a href="#cb6-1" aria-hidden="true" tabindex="-1"></a>mod <span class="sc">|&gt;</span> <span class="fu">plot</span>(</span>
@@ -351,7 +350,6 @@ window.Quarto = {
 </div>
 </div>
 </div>
-<p><br></p>
 <p>The fect package contains an F-test and equivalence test to test parallel trends, accessed through <code>plot()</code>:</p>
 <div class="cell" data-layout-align="center">
 <div class="sourceCode cell-code" id="cb7"><pre class="sourceCode r code-with-copy"><code class="sourceCode r"><span id="cb7-1"><a href="#cb7-1" aria-hidden="true" tabindex="-1"></a>mod <span class="sc">|&gt;</span> <span class="fu">plot</span>(</span>
